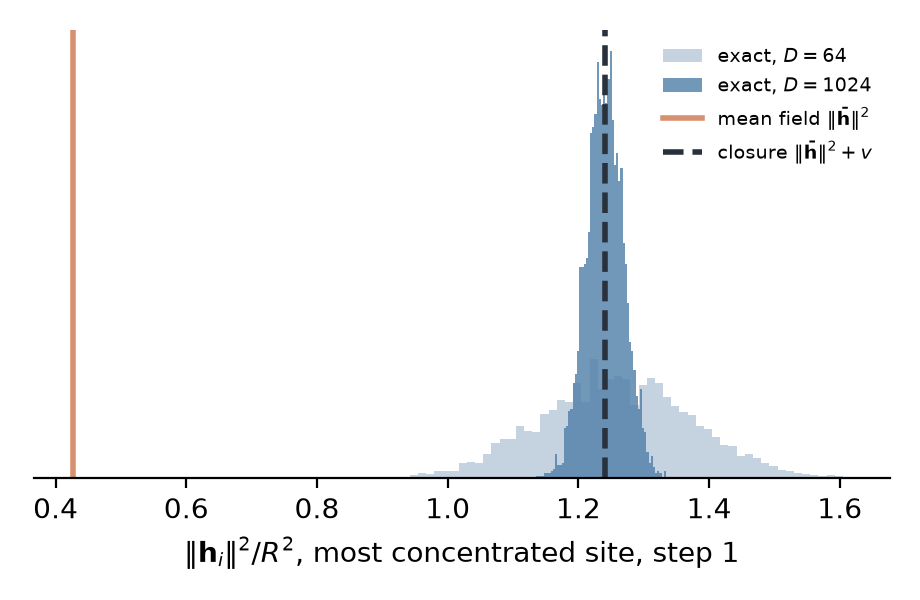
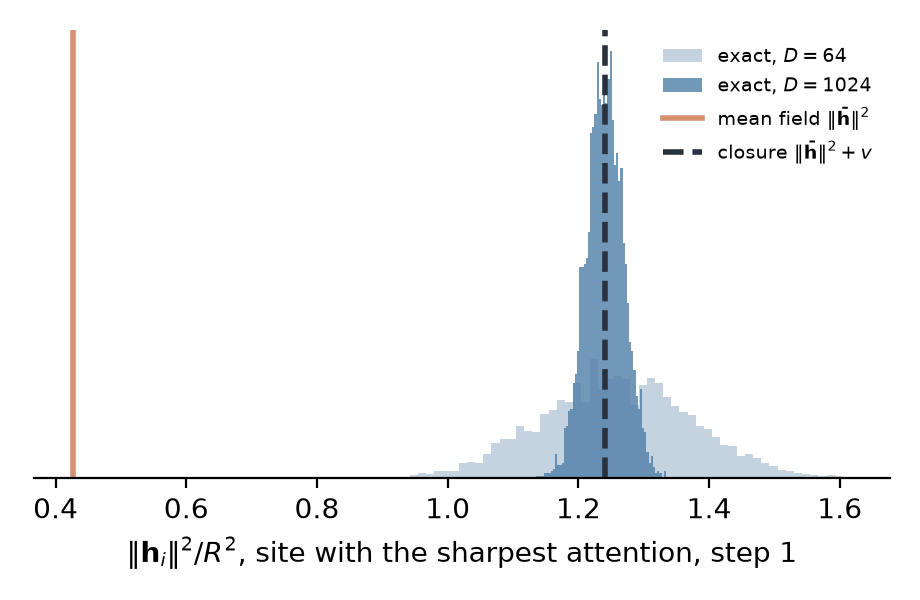
Add header image and some editing

Changed region(s): [[0.1217, 0.87, 0.8826, 0.96]]

diff --git a/content/blog/a-large-d-closure-for-asymmetric-kinetic-vector-spin-systems/index.md b/content/blog/a-large-d-closure-for-asymmetric-kinetic-vector-spin-systems/index.md
@@ -20,7 +20,7 @@ toc: true
 image:
   caption: ""
   focal_point: ""
-  preview_only: true
+  preview_only: false
 
 # Projects (optional).
 #   Associate this post with one or more of your projects.
@@ -56,11 +56,11 @@ We send $D\to\infty$ at fixed $N$, $J$, $\beta>0$ and $\beta\lVert\mathbf x_i\rV
 
 ## High-dimensional vMF geometry
 
-In units of the spin radius, the geometry stays simple as $D\to\infty$. With $\kappa\propto D$, typical vMF samples occupy a thin ring at a fixed latitude around the field direction, with the mean at its center (Figure 1, [Appendix A](#appendix-a-the-geometry-of-a-high-dimensional-vmf)).
+In units of the spin radius, the geometry stays simple as we let $D\to\infty$. With $\kappa\propto D$, typical vMF samples occupy a thin ring at a fixed latitude around the field direction, with the mean at its center (Figure 1(a), [Appendix A](#appendix-a-the-geometry-of-a-high-dimensional-vmf)).
 
 > 💡 **Why a ring?** The field favors alignment, but the sphere offers far more room to wiggle sideways. With $\kappa \propto D$, these effects balance out at a fixed latitude. Increasing $D$ narrows that latitude without eliminating the transverse wobble: the noise stays large, but its length becomes predictable.
 
-The fluctuation $\delta\mathbf s=\mathbf s-\mathbf m$ has squared length $O(D)$, spread over $D-1$ transverse directions, while its variance along any unit direction is $O(1)$. It is nearly perpendicular to the mean, so $\lVert\mathbf m\rVert^2+\lVert\delta\mathbf s\rVert^2\simeq R^2$. Independent transverse fluctuations are nearly orthogonal, so _their squared lengths add when summed_. Increasing $D$ sharpens the ring without shrinking its radius.
+The fluctuation $\delta\mathbf s=\mathbf s-\mathbf m$ has squared length $O(D)$, spread over $D-1$ transverse directions, while its variance along any unit direction is $O(1)$. It is nearly perpendicular to the mean, so $\lVert\mathbf m\rVert^2+\lVert\delta\mathbf s\rVert^2\simeq R^2$. Independent transverse fluctuations are nearly orthogonal, so _their squared lengths add when summed_. Increasing $D$ sharpens the ring without shrinking its radius (Figure 1(b)).
 
 {{< lightbox
   src="ring.png"
@@ -139,11 +139,10 @@ Both terms can be $O(D)$. The useful large-$D$ fact is that the squared norm con
 
 > 💡 **Predictable geometry.** Field lengths depend only on spin–spin and drive–spin overlaps. These start concentrated. Each update changes their typical values smoothly, while fresh noise adds only $O(D^{-1/2})$ fluctuations to normalized overlaps. Concentration therefore carries forward for any fixed number of updates, even as shared inputs correlate the spins ([Appendix C](#appendix-c-concentration-and-closure)).
 
-This works at fixed couplings and site count, without requiring many weak inputs. Correlated spins can have predictable overlaps too.
 
 ## A deterministic gain
 
-We now evaluate the same gain function at the typical squared length, $a_i\equiv g(r_i^2)$:
+We now evaluate the same gain function at the field's typical squared length, $a_i\equiv g(r_i^2)$, so that
 
 \begin{equation}
 \mathbf s_i'\simeq a_i\mathbf h_i+\boldsymbol\epsilon_i,
@@ -152,11 +151,13 @@ We now evaluate the same gain function at the typical squared length, $a_i\equiv
 \label{eq:linear}
 \end{equation}
 
-> 💡 **Normalize by the full length.** At strong fields, $\varphi_\beta(\mathbf h)\simeq R\mathbf h/\lVert\mathbf h\rVert$. The denominator concentrates at $r_i$, while the numerator averages to $\bar{\mathbf h}_i$. Thus $\mathbf m_i'\simeq R\bar{\mathbf h}_i/r_i$. Mean field divides by $\lVert\bar{\mathbf h}_i\rVert$ instead, missing the extra length supplied by noise.
-
 Here $\boldsymbol\epsilon_i=\mathbf s_i'-\boldsymbol\mu_D(\mathbf h_i)$ is the fresh sampling noise. Its conditional mean is zero, so it is uncorrelated with the past; conditional independence across sites also makes distinct sites' fresh noises uncorrelated. Its expected squared length is $2R^2/(1+\gamma_i)$ to leading order.
 
-With a deterministic gain, the update is linear in the old fluctuations. Taking expectations and expected dot products of the fluctuations gives, with $A=\mathrm{diag}(a)$,
+Because the gain decreases with squared field norm, including $v_i$ lowers the gain. At the same current mean field, the closure therefore predicts a shorter next mean in the same direction. Over later updates, the changed balance between drive and feedback can also change the direction.
+
+> 💡 **Normalizing by the full length.** At strong fields, $\varphi_\beta(\mathbf h)\simeq R\mathbf h/\lVert\mathbf h\rVert$. The denominator concentrates at $r_i$, while the numerator averages to $\bar{\mathbf h}_i$. Thus $\mathbf m_i'\simeq R\bar{\mathbf h}_i/r_i$. Mean field divides by $\lVert\bar{\mathbf h}_i\rVert$ instead, missing the extra length supplied by noise.
+
+With a deterministic gain, the update is linear in the old fluctuations. Taking expectations and expected dot products of the fluctuations, with $A=\mathrm{diag}(a)$, we find
 
 \begin{equation}
 \boxed{
@@ -168,22 +169,20 @@ D_{ij}&=a_i(JC)_{ij}.
 \label{eq:closure}
 \end{equation}
 
-Here $D_{ij}=\mathbb E[\delta\mathbf s_i'\cdot\delta\mathbf s_j]$ is the one-step delayed covariance. Old noise passes through $AJ$; fresh noise supplies the diagonal term in $C'$ and contributes nothing to $D_{ij}$. These are leading-order moment equations, requiring no Gaussian assumption on the field.
+Here $D_{ij}=\mathbb E[\delta\mathbf s_i'\cdot\delta\mathbf s_j]$ is the one-step delayed covariance. Old noise passes through $AJ$; fresh noise supplies the diagonal term in $C'$ and contributes nothing to $D_{ij}$. These are leading-order moment equations, requiring no Gaussian assumption on the field. The computational cost is $O(N^2D+N^3)$ due to the dense covariance update, but [can be reduced](#carrying-noise-instead-of-a-matrix) to $O(N^2D+kN^2)$ by carrying along $k$ noise channels.
 
-The recursion preserves the sphere identity exactly:
+The recursion also preserves the sphere identity exactly:
 
 \begin{equation}
 \lVert\mathbf m_i'\rVert^2+C_{ii}'
 =a_i^2r_i^2+\frac{2R^2}{1+\gamma_i}=R^2.
 \end{equation}
 
-Whatever the mean loses in squared length is gained by the noise. Scalar couplings let us follow this balance using traces alone, without $D\times D$ covariance blocks. In units of $R$, the equations have no explicit $D$; a dense step costs $O(N^2D+N^3)$.
+Whatever the mean loses in squared length is gained by the noise. Scalar couplings let us follow this balance using traces alone, without $D\times D$ covariance blocks.
 
 ## What mean field misses
 
-Because the gain decreases with squared field norm, including $v_i$ lowers the gain. At the same current mean field, the closure therefore predicts a shorter next mean in the same direction. Over later updates, the changed balance between drive and feedback can also change the direction.
-
-From a product start, only the individual input variances contribute:
+**Sharp attention.** From a product start, only the individual input variances contribute:
 
 \begin{equation}
 v_i=\sum_jJ_{ij}^2\left(R^2-\lVert\mathbf m_{0,j}\rVert^2\right)
@@ -192,9 +191,9 @@ v_i=\sum_jJ_{ij}^2\left(R^2-\lVert\mathbf m_{0,j}\rVert^2\right)
 \label{eq:first}
 \end{equation}
 
-For nonnegative rows summing to one, $N_{\mathrm{eff}}$ ranges from 1 for a single input to $N$ for uniform weights. Diffuse weights suppress independent input noise; concentrated weights retain it.
+For couplings with nonnegative rows summing to one (like `softmax`), $N_{\mathrm{eff}}$ ranges from 1 for a single input to $N$ for uniform weights. Diffuse attention suppresses independent input noise and sharp attention retains it.
 
-After an update, sites reading the same inputs acquire covariance. This shared noise feeds back into $v_i$ and contributes to delayed correlations:
+**Shared inputs.** After an update, sites reading the same inputs acquire covariance. This shared noise feeds back into $v_i$ and contributes to delayed correlations:
 
 \begin{equation}
 D_{ij}=\underbrace{a_iJ_{ij}C_{jj}}_{\text{direct}}
@@ -229,10 +228,10 @@ Mean field instead levels off at about 23% for mean overlaps and 20% for delayed
 {{< lightbox
   src="fieldnorm.png"
   alt="Squared field norms at one site for D = 64 and 1024. The distribution narrows around the closure's prediction, well above the mean-field value."
-  caption="**Figure 3.** Squared field norm entering the first update at the most concentrated site. Mean field retains only $\lVert\bar{\mathbf h}_i\rVert^2$, about a third of the typical value. Adding $v_i$ locates the center of the distribution, whose width scales as $D^{-1/2}$."
+  caption="**Figure 3.** Squared field norm entering the first update at the site with the sharpest attention ($N_{\mathrm{eff}}\approx1$). Mean field retains only $\lVert\bar{\mathbf h}_i\rVert^2$, about a third of the typical value. Adding $v_i$ locates the center of the distribution, whose width scales as $D^{-1/2}$."
 >}}
 
-## Concentrated weights and shared inputs
+## Sharp attention and shared inputs
 
 A causal mask lets us vary $N_{\mathrm{eff}}$ across sites in one run. After one update at $D=256$, the mean-field error falls from 29% for single-input rows to 3% at $N_{\mathrm{eff}}\approx20$, while the closure stays near 0.4%. The deterministic gap between the two predictions accounts for nearly all of the mean-field error: the missing field length is the main effect.
 
@@ -242,7 +241,7 @@ A causal mask lets us vary $N_{\mathrm{eff}}$ across sites in one run. After one
   caption="**Figure 4.** (a) Per-site mean error after one update under a causal mask ($D=256$). Crosses: the gap between mean field and the closure. (b) Errors after four updates with identical row weights, scattered over columns or placed on common inputs ($D=64$)."
 >}}
 
-For a one-step module with a product initializer, the correction needs only one extra pass with squared weights over the initializer's per-site variance, with `gamma0` evaluated in the initializer fields:
+For a one-step module with a product initializer, the correction to naive mean field needs only one extra pass with squared weights over the initializer's per-site variance, with `gamma0` evaluated in the initializer fields:
 
 ```python
 H = X + J @ M
@@ -252,7 +251,7 @@ gamma = np.sqrt(1 + beta**2 * ((H * H).sum(-1) + v) / R2)
 M_next = beta * H / (1 + gamma)[:, None]
 ```
 
-One can think of this as a variance-aware `RMSNorm`: the normalizer includes the field's noise variance.
+One can think of this corrected response as a variance-aware `RMSNorm` where the normalizer includes the field's noise variance.
 
 After several updates, shared inputs matter too. Keeping each row's weights fixed but moving the large weights onto common columns raises the cross-site contribution to $v_i$ from 1.5% to 37%. Mean field then misses mean overlaps by 76% and delayed correlations by 96%. The diagonal closure reduces the former to 19% but leaves the latter unchanged; the full closure keeps both errors near 5%. The same ordering holds when varying $\beta$ or $u$ separately, with the largest gaps at weak drive.
 
@@ -264,11 +263,11 @@ At a fixed point, write $B=AJ$. If $\rho(B)<1$, the covariance is
 C^\star=\sum_{k\geq0}B^k\,\mathrm{diag}\!\left(\frac{2R^2}{1+\gamma}\right)(B^k)^\top.
 \end{equation}
 
-Each term is fresh noise propagated through earlier updates. To check whether the closure remains accurate after relaxation, we use $N=64$ with diffuse ($N_{\mathrm{eff}}\approx28$) and concentrated ($N_{\mathrm{eff}}\approx4$) couplings. Stationary references are time averages after burn-in; these runs use one initialization and check drift in the means.
+Each term is fresh noise propagated through earlier updates. To check whether the closure remains accurate after relaxation, we use $N=64$ with diffuse ($N_{\mathrm{eff}}\approx28$) and sharp ($N_{\mathrm{eff}}\approx4$) couplings. Stationary references are time averages after burn-in; these runs use one initialization and check drift in the means.
 
 {{< lightbox
   src="relaxation.png"
-  alt="Errors along relaxation for diffuse and concentrated couplings at D = 64 and 256, settling near their stationary values by K of about 16."
+  alt="Errors along relaxation for diffuse and sharp couplings at D = 64 and 256, settling near their stationary values by K of about 16."
   caption="**Figure 5.** Errors from $K=1$ to 100, with stationary estimates at $\infty$. Solid: $D=256$. Dashed: $D=64$."
 >}}
 
@@ -283,7 +282,7 @@ This also explains the previous post's roughly 11% delayed-correlation gap at $(
 | 256 | 11% | 12% | 0.53% |
 | 1024 | 12% | 12% | 0.13% |
 
-Large $D$ can still mean quite large. At $(u,\beta)=(0.5,2)$, the closure's mean-overlap error is 89%, 20% and 1.2% at $D=16$, 64 and 1024. The corresponding errors in the mean vectors are 30%, 7% and 0.4%.
+The required $D$ can still be quite large in practice, which matters when $D$ is set by the head dimension. At $(u,\beta)=(0.5,2)$, the closure's mean-overlap error is 89%, 20% and 1.2% at $D=16$, 64 and 1024. The corresponding errors in the mean vectors are 30%, 7% and 0.4%.
 
 ## Carrying noise instead of a matrix
 
@@ -300,7 +299,7 @@ Z'=A\big(Y+J\,\mathrm{diag}(\sqrt{\mathbf b})\,\Xi\big),\qquad
 b_i'=\frac{2R^2}{1+\gamma_i},
 \end{equation}
 
-where $\Xi$ has independent standard Gaussian entries. Fresh noise stays diagonal until the couplings mix it across sites. Conditional on the current sketch, this reproduces the closure's covariance update in expectation; later gains depend on sampled noise, so the full trajectory is not unbiased ([Appendix D](#appendix-d-the-sampled-closure)). Evolution costs $O(N^2D+kN^2)$ without storing a dense covariance matrix.
+where $\Xi$ has independent standard Gaussian entries. Fresh noise stays diagonal until the couplings mix it across sites. Conditional on the current state, this reproduces the closure's covariance update in expectation; later gains depend on sampled noise, so the full trajectory is not unbiased ([Appendix D](#appendix-d-the-sampled-closure)). Evolution costs $O(N^2D+kN^2)$ without storing a dense covariance matrix.
 
 The entropy-production panel uses $\beta\sum_{ij}(J_{ij}-J_{ji})D_{ij}$. At stationarity this is housekeeping entropy production; during relaxation it serves only as a diagnostic.
 
@@ -334,7 +333,7 @@ D=\mathrm{diag}(\chi)JC,
 \qquad \chi_i=\beta\int\!\mathcal Dz\,\left\{1-\tanh^2\!\left[\beta\left(\bar h_i+\sqrt{\Delta_i}\,z\right)\right]\right\}.
 \end{equation}
 
-This has the same matrix form as our delayed covariance, with a Gaussian-averaged susceptibility $\chi_i$ replacing the radial gain $a_i$. Their Gaussian-field argument uses the large-$N$, fully asymmetric setting. Here concentration across vector components makes the radial response reduce to a gain at $\lVert\bar{\mathbf h}_i\rVert^2+v_i$, at fixed $N$ and $J$, without requiring Gaussian fields.
+This has the same matrix form as our delayed covariance, with a Gaussian-averaged susceptibility $\chi_i$ replacing the radial gain $a_i$. Their Gaussian-field argument uses the large-$N$, fully asymmetric setting. Here concentration across vector components makes the radial response reduce to a gain at $\lVert\bar{\mathbf h}_i\rVert^2+v_i$, at fixed $N$ and $J$, without requiring Gaussian fields or assumptions on the coupling statistics.
 
 [Huang and Kabashima (2014)](https://arxiv.org/abs/1310.5003) retain correlations between Gaussian local fields, using their full covariance $JCJ^\top$. The variance above becomes $\Delta_i=(JCJ^\top)_{ii}$: the same shared-noise contribution that enters $v_i$ here. Their Gaussian treatment also recovers the delayed-covariance relation without expanding in small cross-field correlations.
 
@@ -345,11 +344,11 @@ The length constraint also connects this construction to [equilibrium large-comp
 
 # Conclusion and outlook
 
-Large $D$ makes the field's length predictable while retaining the noise that contributes to it. Evaluating the gain at that length closes the means and covariance traces, capturing both norm inflation and shared inputs. The argument applies at fixed finite time; the numerical checks show roughly $1/D$ errors through relaxation and at the tested stationary states.
+We have shown how large $D$ makes the field's length predictable while retaining the noise that contributes to it. Evaluating the gain at that length closes the means and covariance traces, capturing the effects of both norm inflation and shared inputs. The argument applies at fixed finite time, and numerical checks show roughly $1/D$ errors through relaxation and at the tested stationary states.
 
-For a one-step module, the correction costs one extra pass with squared weights. For several steps, sampled noise channels make the covariance practical to carry, with few channels sufficient for means and the entropy-production proxy in these runs. The immediate learning question is whether this changes trained behavior, or whether training absorbs the mean-field error.
+For a one-step module built on these update equations, the correction costs one extra attention-like pass with squared weights. For several steps, sampled noise channels make the covariance practical to carry, with few channels sufficient for means and the entropy-production proxy in these runs. The immediate learning question is whether this changes trained behavior, or whether training in practice absorbs the mean-field error.
 
-Stacking raises a further choice. Layers driven by the preceding layer's means can reuse this closure. Passing sampled spins onward also passes their noise: vector maps reshape it, and queries and keys can make the couplings fluctuate. [Appendix E](#appendix-e-the-signal-subspace) shows why traces alone then lose useful information about directions. The next step is to test how much directional information a learned stack actually needs.
+Stacking modules raises a further choice. Layers driven by the preceding layer's means can reuse this closure. Passing sampled spins onward also passes their noise: vector maps reshape it, and queries and keys can make the couplings fluctuate. [Appendix E](#appendix-e-the-signal-subspace) shows why traces alone then lose useful information about directions. The next step is to test how much directional information a learned stack actually needs.
 
 
 # Acknowledgements
@@ -563,7 +562,7 @@ K_{ij}=\frac{\langle\mathbf S_i\cdot\mathbf S_j\rangle}{m},
 
 where $\Lambda$ contains one multiplier per site enforcing its length constraint ([Lee, Dhar and Young, 2004](https://arxiv.org/abs/cond-mat/0408073)). Our recursion likewise follows a correlation matrix under local length constraints, but describes synchronous dynamics with possibly asymmetric couplings.
 
-Local constraints also distinguish this limit from a spherical model with one global constraint ([Hastings, 1999](https://arxiv.org/abs/cond-mat/9906186)), whose Langevin dynamics can be solved exactly ([Cugliandolo and Dean, 1995](https://arxiv.org/abs/cond-mat/9502075)). The component and thermodynamic limits need not commute. Here the overlaps compare physical sites, rather than replicas, and the finite-time argument makes no claim about a glass phase.
+Local constraints also distinguish this limit from a spherical model with one global constraint ([Hastings, 1999](https://arxiv.org/abs/cond-mat/9906186)). The spherical Sherrington–Kirkpatrick model, for example, admits an exact solution of its Langevin dynamics ([Cugliandolo and Dean, 1995](https://arxiv.org/abs/cond-mat/9502075)). The component and thermodynamic limits need not commute. Here the overlaps compare physical sites, rather than replicas, and the finite-time argument makes no claim about a glass phase.
 
 ### Units and initialization
 
